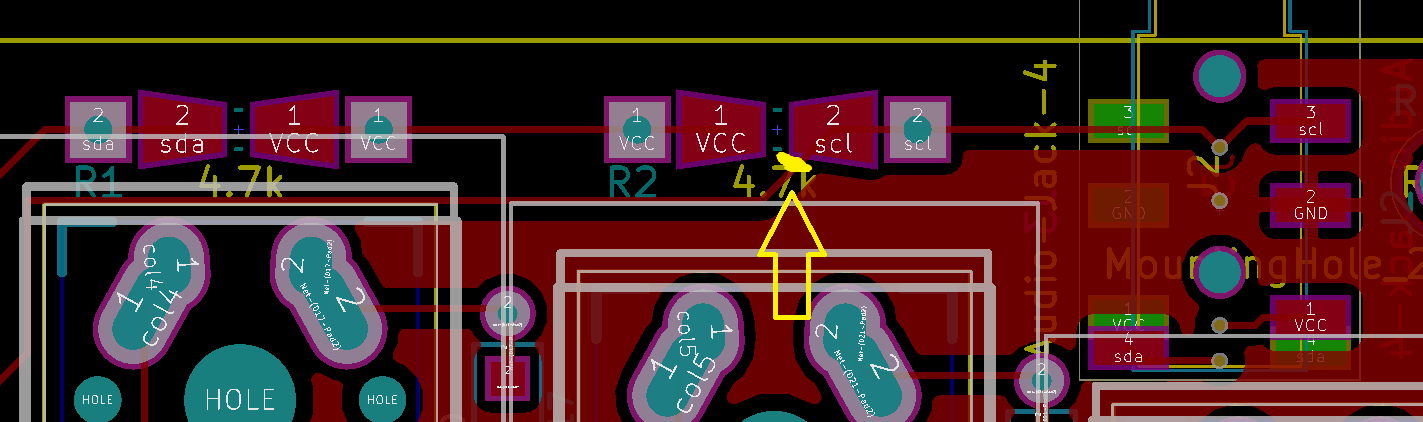
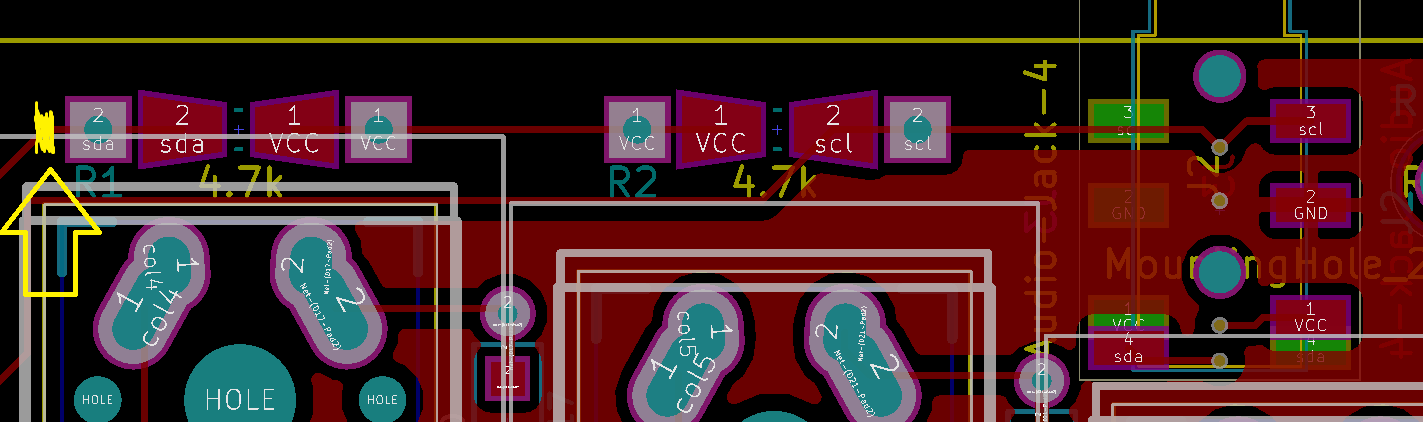
updating  pcb trace cut instuctions - cut sda instead of sck

diff --git a/InstallingWS2812_V1.00.md b/InstallingWS2812_V1.00.md
@@ -30,7 +30,7 @@ This step is only relevant if the resistors were installed and only applies to o
 ### Step 2: Cut the SCL trace going from Pro Micro to R2 Resistor.
 This step is done on both boards.  
 
-The pad of the R2 resistor that's closest to the TRRS connector is the "Extra Data" pad.
+The pad of the R1 resistor that's farthest to the TRRS connector is the "Extra Data" pad.
 
 ![diodes](/images/I2C%20Resistors.CUTHERE.V1.00%20Top.png)
 
@@ -60,7 +60,7 @@ The middle pad is for the RGB data going to the DI pin of the strip.
 #### Top View - Near Resistors
 ![diodes](/images/I2C%20Resistors.EXTRADATA.V1.00%20Top.png)
 
-The pad of the R2 resistor that's closest to the TRRS connector is the "Extra Data" pad.
+The pad of the R1 resistor that's farthest to the TRRS connector is the "Extra Data" pad.
 
 Connect the DO of the strip (the other end) to this "extra data" pad (R2)
 
